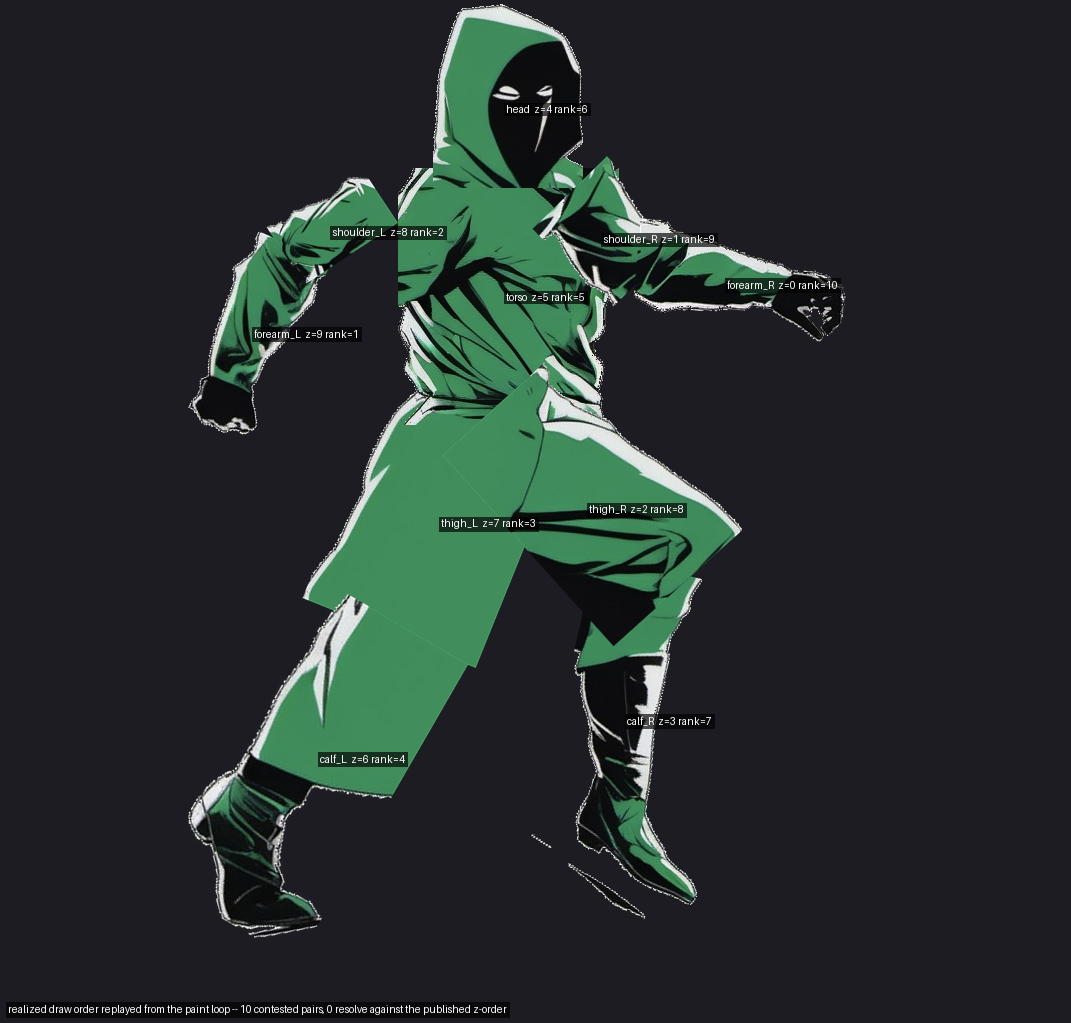
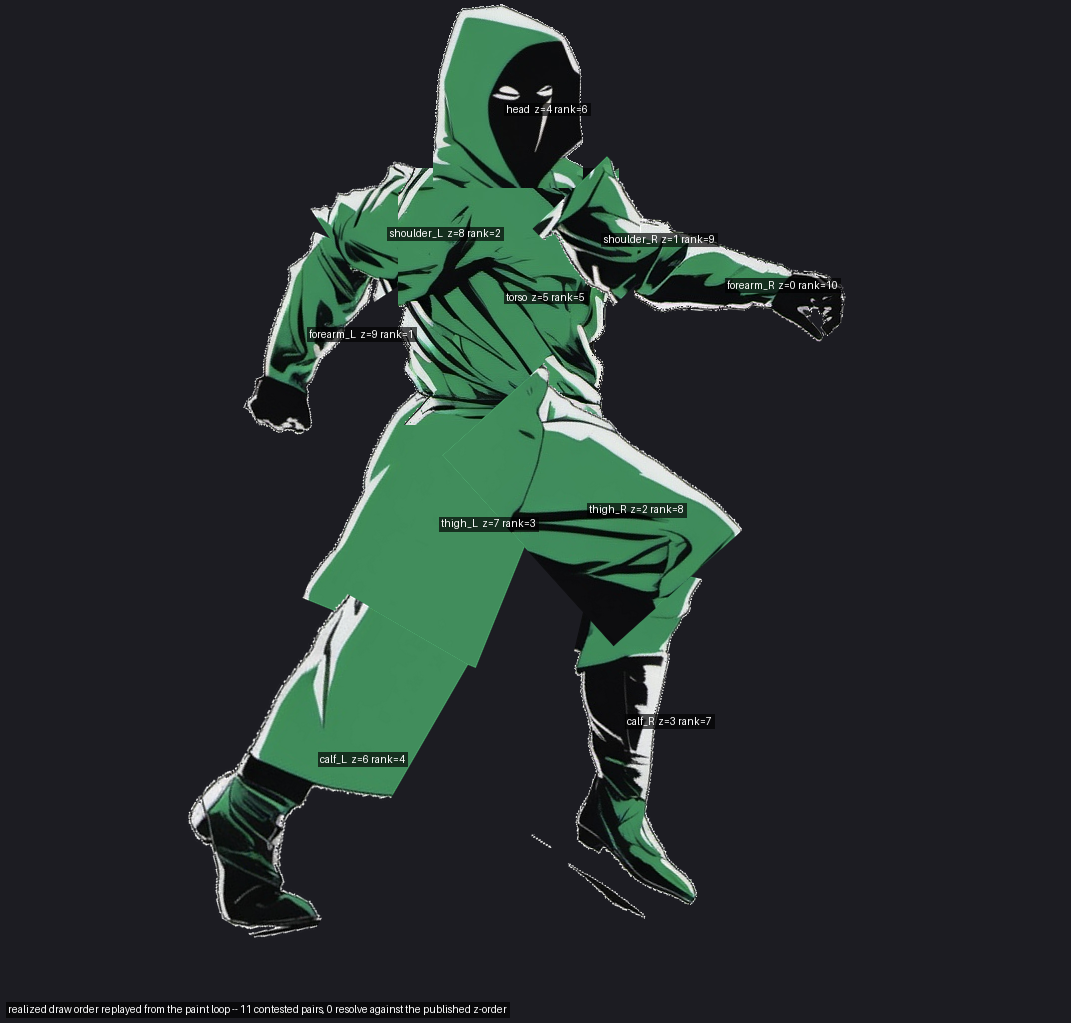
feat(character): T-0436 fix round 5 -- regenerated reference-pose evidence
Re-runs gen_reference_pose_evidence_T0436.py and gen_draw_order_audit_T0436.py
against the shoulder-attachment fix (offset -0.10, shoulder_L width restore).
reference_pose_render.png and rig_vs_reference_overlay.png now show the far
shoulder genuinely overlapping the torso instead of reading as detached;
draw_order_audit.png confirms the realized paint order is still 10/10 against
the published z-order, now with 11 contested pairs (0 resolving against it).
The evidence script's own visible_pixel_count import moves from the test
module (char_gen.shoulder_attachment_T0436's own copy) to production code,
and its overlay caption gains the armhole-wedge/sleeve-overlap counts.

Changed region(s): [[0.1849, 0.1515, 0.493, 0.4242], [0.3697, 0.303, 0.4006, 0.3333]]

diff --git a/assets/src/character/gen_reference_pose_evidence_T0436.py b/assets/src/character/gen_reference_pose_evidence_T0436.py
@@ -22,16 +22,17 @@ the test coverage (`tests/test_reference_pose_render_T0436.py`,
 """
 from __future__ import annotations
 
-import sys
 from pathlib import Path
 
 from PIL import Image, ImageDraw
 
-sys.path.insert(0, str(Path(__file__).resolve().parent / "tests"))
-
-from char_gen import reference_pose_T0436 as refpose  # noqa: E402
-from char_gen import rig_compositor  # noqa: E402
-from test_reference_pose_render_T0436 import visible_pixel_count  # noqa: E402
+from char_gen import reference_pose_T0436 as refpose
+from char_gen import rig_compositor
+from char_gen.shoulder_attachment_T0436 import (
+    armhole_wedge_px,
+    sleeve_torso_overlap_px,
+    visible_pixel_count,
+)
 
 OUT_DIR = Path(__file__).resolve().parents[3] / "docs" / "assets" / "evidence" / "T-0436"
 
@@ -120,6 +121,9 @@ def main() -> None:
     adopted_shin_frac = rig["canonical_rig"]["leg_proportions"]["adopted"]["shin_frac"]
     deviation_shin = lengths["calf_R"] / spine - adopted_shin_frac
 
+    armhole_wedge = armhole_wedge_px(with_offset)
+    sleeve_overlap = sleeve_torso_overlap_px(with_offset)
+
     shoulder_bar = rig["canonical_rig"]["shoulder_bar"]
     pelvis_bar = rig["canonical_rig"]["pelvis_bar"]
     caption_lines = [
@@ -128,6 +132,7 @@ def main() -> None:
         f"shoulder_L visible px: {shoulder_l_px_no_offset} (no offset) "
         f"-> {shoulder_l_px} (with offset)",
         f"forearm_L visible px: {forearm_l_px}",
+        f"armhole wedge: {armhole_wedge}px  sleeve/torso overlap: {sleeve_overlap}px",
         f"WORST JOINT: front shin (calf_R), deviation {deviation_shin:+.2f} x spine"
         " (current, unreconciled, vs adopted far-side target -- deliberately not applied)",
     ]
@@ -141,6 +146,8 @@ def main() -> None:
     print("shoulder_L visible px (no offset):", shoulder_l_px_no_offset)
     print("shoulder_L visible px (with offset):", shoulder_l_px)
     print("forearm_L visible px (with offset):", forearm_l_px)
+    print("armhole wedge px:", armhole_wedge)
+    print("sleeve/torso overlap px:", sleeve_overlap)
     print("front shin deviation (x spine):", deviation_shin)
     print("wrote", OUT_DIR / "reference_pose_render.png")
     print("wrote", OUT_DIR / "rig_vs_reference_overlay.png")
